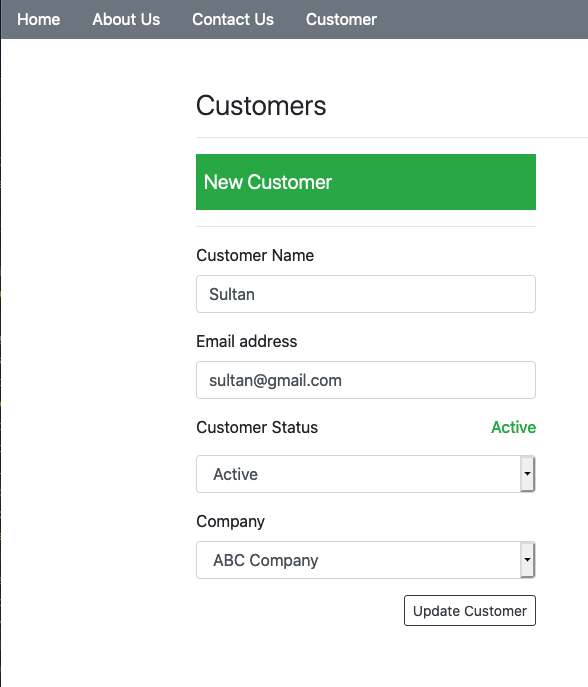
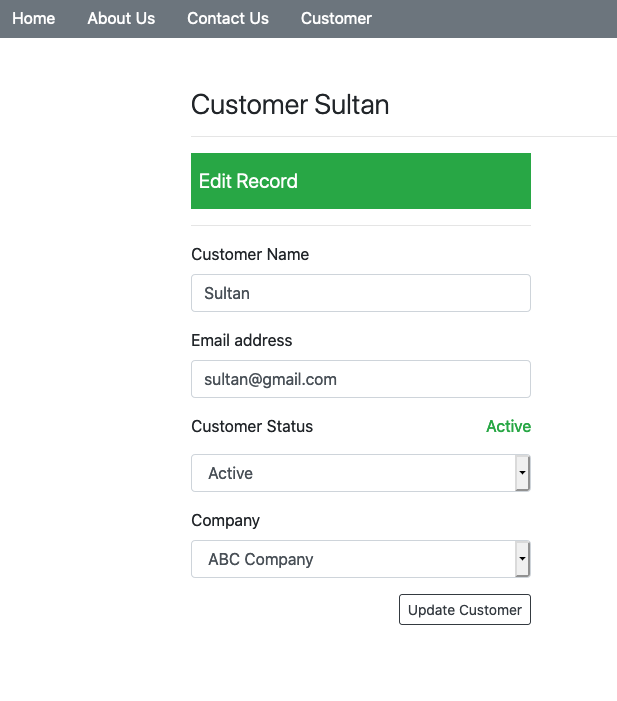
edit view changes

diff --git a/resources/views/customers/edit.blade.php b/resources/views/customers/edit.blade.php
@@ -5,12 +5,12 @@
 
 
     <div class="container mt-5">
-        <h3 class="title">Customers</h3>
+        <h3 class="title">Customer {{ $customer->name }}</h3>
     <hr>
 
         <div class="row">
             <div class="col-md-4 ">
-                <h5 class=" {{ $customer->active === 'Active'? 'bg-success ':'bg-secondary ' }}text-white pt-3 pb-3 pl-2">New Customer</h5>
+                <h5 class=" {{ $customer->active === 'Active'? 'bg-success ':'bg-secondary ' }}text-white pt-3 pb-3 pl-2">Edit Record</h5>
                 <hr class="mb-3">
                 <form action="/customers/{{ $customer->id }}" method="POST">
                     @csrf
